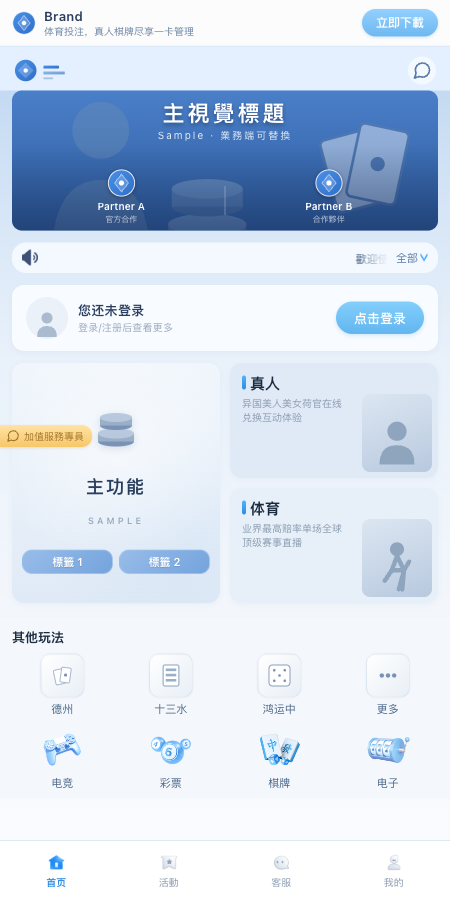
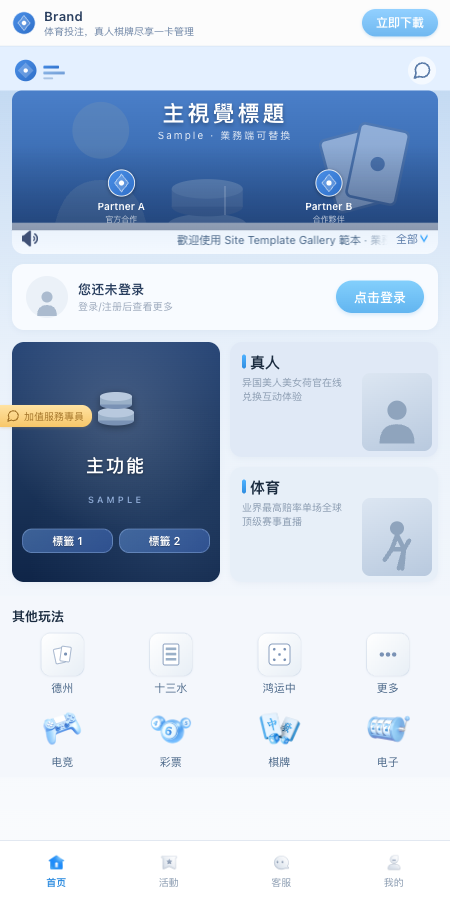
polish(dxpker-sky-v1): align layout to original (marquee 合進 Hero, Hall texas 深藍)
依使用者反饋對齊原競品結構：
- Marquee 從獨立 chip 改成緊貼 Hero 底邊（負 margin -8px、上方圓角 +
  border-top 線），視覺上跟 Hero 是一體
- Hero 底部圓角拿掉（border-radius: 10px 10px 0 0），讓 marquee 接得自然
- Hall texas 大卡改深藍漸層底（#2A4878 → #1A3358 → #0F2548）對齊原競
  品的深色視覺強度；文字白色 + 標籤淺藍邊
- 加值服務專員浮按鈕從 Hall 左上 (top:425) 改為 vertical-mid (top:405)
  貼 Hall texas 左側
- Login card margin top 從 12px 收為 10px

純結構性對齊（layout / 純色背景 / spacing），未複製品牌素材也未近似
改編。13 個 quarantined IP 風險素材仍在 .tmp/dxpker-quarantine/。

bust Cloudflare cache: style.css?v=20260525-align

diff --git a/templates/2026-05-25-dxpker-sky-v1/style.css b/templates/2026-05-25-dxpker-sky-v1/style.css
@@ -97,12 +97,12 @@ svg { display: block; }
   justify-content: center;
 }
 
-/* ── Hero ── */
+/* ── Hero (圓角只有上方，因為 marquee 緊貼下方) ── */
 .hero {
   position: relative;
   height: 140px;
   margin: 0 12px;
-  border-radius: 10px;
+  border-radius: 10px 10px 0 0;
   overflow: hidden;
   background: linear-gradient(180deg, #4A7FC9 0%, #2D5B9C 100%);
 }
@@ -165,15 +165,18 @@ svg { display: block; }
 .sponsor-name { font-size: 10px; font-weight: 600; opacity: 0.98; }
 .sponsor-role { font-size: 8px; opacity: 0.7; }
 
-/* ── Marquee ── */
+/* ── Marquee (緊貼 Hero 底邊，視覺上是 Hero 延伸) ── */
 .marquee {
   display: flex;
   align-items: center;
   gap: 8px;
-  margin: 12px 12px 0;
+  margin: -8px 12px 0;
   padding: 6px 10px;
-  background: #F4F9FF;
-  border-radius: 14px;
+  background: linear-gradient(180deg, #E8F1FB 0%, #F4F9FF 100%);
+  border-radius: 0 0 12px 12px;
+  border-top: 1px solid rgba(180,210,240,0.4);
+  position: relative;
+  z-index: 1;
 }
 .marquee-icon { width: 16px; height: 16px; flex: 0 0 16px; }
 .marquee-track {
@@ -208,7 +211,7 @@ svg { display: block; }
   display: flex;
   align-items: center;
   justify-content: space-between;
-  margin: 12px;
+  margin: 10px 12px 12px;
   padding: 12px 14px;
   background: #F8FBFF;
   border-radius: 12px;
@@ -241,7 +244,7 @@ svg { display: block; }
   box-shadow: 0 2px 4px rgba(110,180,235,0.25);
 }
 
-/* ── Floating customer service ── */
+/* ── Floating customer service (貼 Hall texas 大卡左上角，對齊原站位置) ── */
 .floating-cs {
   display: flex;
   align-items: center;
@@ -254,8 +257,8 @@ svg { display: block; }
   box-shadow: 0 1px 3px rgba(190,150,80,0.25);
   position: absolute;
   left: 0;
-  top: 425px;
-  z-index: 5;
+  top: 405px;
+  z-index: 6;
 }
 
 /* ── Main hall grid (3 cards) ── */
@@ -302,11 +305,11 @@ svg { display: block; }
   line-height: 1.4;
 }
 
-/* Hall TEXAS card */
+/* Hall TEXAS card (深藍色純背景，對齊原站視覺強度) */
 .hall-texas {
   grid-row: 1 / span 2;
-  background: linear-gradient(180deg, #F0F6FC 0%, #E0EAF6 100%);
-  color: #2A3F5F;
+  background: linear-gradient(180deg, #2A4878 0%, #1A3358 60%, #0F2548 100%);
+  color: #FFFFFF;
   align-items: center;
   justify-content: space-evenly;
   text-align: center;
@@ -317,8 +320,8 @@ svg { display: block; }
   position: absolute;
   inset: 0;
   background:
-    radial-gradient(circle at 50% 35%, rgba(255,255,255,0.6), transparent 65%),
-    radial-gradient(circle at 80% 80%, rgba(180,210,240,0.18), transparent 50%);
+    radial-gradient(circle at 50% 30%, rgba(255,255,255,0.15), transparent 60%),
+    radial-gradient(circle at 75% 85%, rgba(140,180,230,0.12), transparent 55%);
   pointer-events: none;
 }
 .hall-texas-chips {
@@ -326,7 +329,7 @@ svg { display: block; }
   height: 64px;
   position: relative;
   z-index: 1;
-  filter: drop-shadow(0 2px 4px rgba(100,130,170,0.25));
+  filter: drop-shadow(0 2px 4px rgba(0,0,0,0.35));
 }
 .hall-texas-title {
   position: relative;
@@ -334,8 +337,9 @@ svg { display: block; }
   font-size: 18px;
   font-weight: 700;
   letter-spacing: 2px;
-  color: #2A3F5F;
+  color: #FFFFFF;
   line-height: 1.1;
+  text-shadow: 0 1px 3px rgba(0,0,0,0.4);
 }
 .hall-texas-sub {
   position: relative;
@@ -343,7 +347,7 @@ svg { display: block; }
   font-size: 9px;
   font-weight: 600;
   letter-spacing: 3px;
-  color: rgba(120,140,170,0.7);
+  color: rgba(180,210,255,0.7);
   margin-bottom: 4px;
 }
 .hall-texas-tags {
@@ -359,12 +363,12 @@ svg { display: block; }
   font-size: 11px;
   font-weight: 600;
   color: #FFFFFF;
-  background: linear-gradient(135deg, rgba(140,180,230,0.85), rgba(110,160,220,0.95));
-  border: 1px solid rgba(180,210,240,0.5);
+  background: linear-gradient(135deg, rgba(100,150,220,0.5), rgba(60,100,180,0.6));
+  border: 1px solid rgba(180,210,255,0.3);
   border-radius: 10px;
   padding: 4px 0;
   text-align: center;
-  text-shadow: 0 1px 1px rgba(60,90,140,0.3);
+  text-shadow: 0 1px 1px rgba(0,0,0,0.3);
 }
 
 /* Hall portrait area (right cards) */

diff --git a/templates/2026-05-25-dxpker-sky-v1/index.html b/templates/2026-05-25-dxpker-sky-v1/index.html
@@ -4,7 +4,7 @@
 <meta charset="UTF-8">
 <meta name="viewport" content="width=450,initial-scale=1,maximum-scale=1,user-scalable=no">
 <title>Dxpker Sky V1</title>
-<link rel="stylesheet" href="style.css?v=20260525-polish">
+<link rel="stylesheet" href="style.css?v=20260525-align">
 <!-- Flutter: origin is Flutter Web (canvaskit). No HTML→Flutter widget token mapping needed; see docs/flutter-token-mapping.md. line-height: 1.3 set in style.css. -->
 <style>/* line-height: 1.3 (set via style.css) */</style>
 </head>
